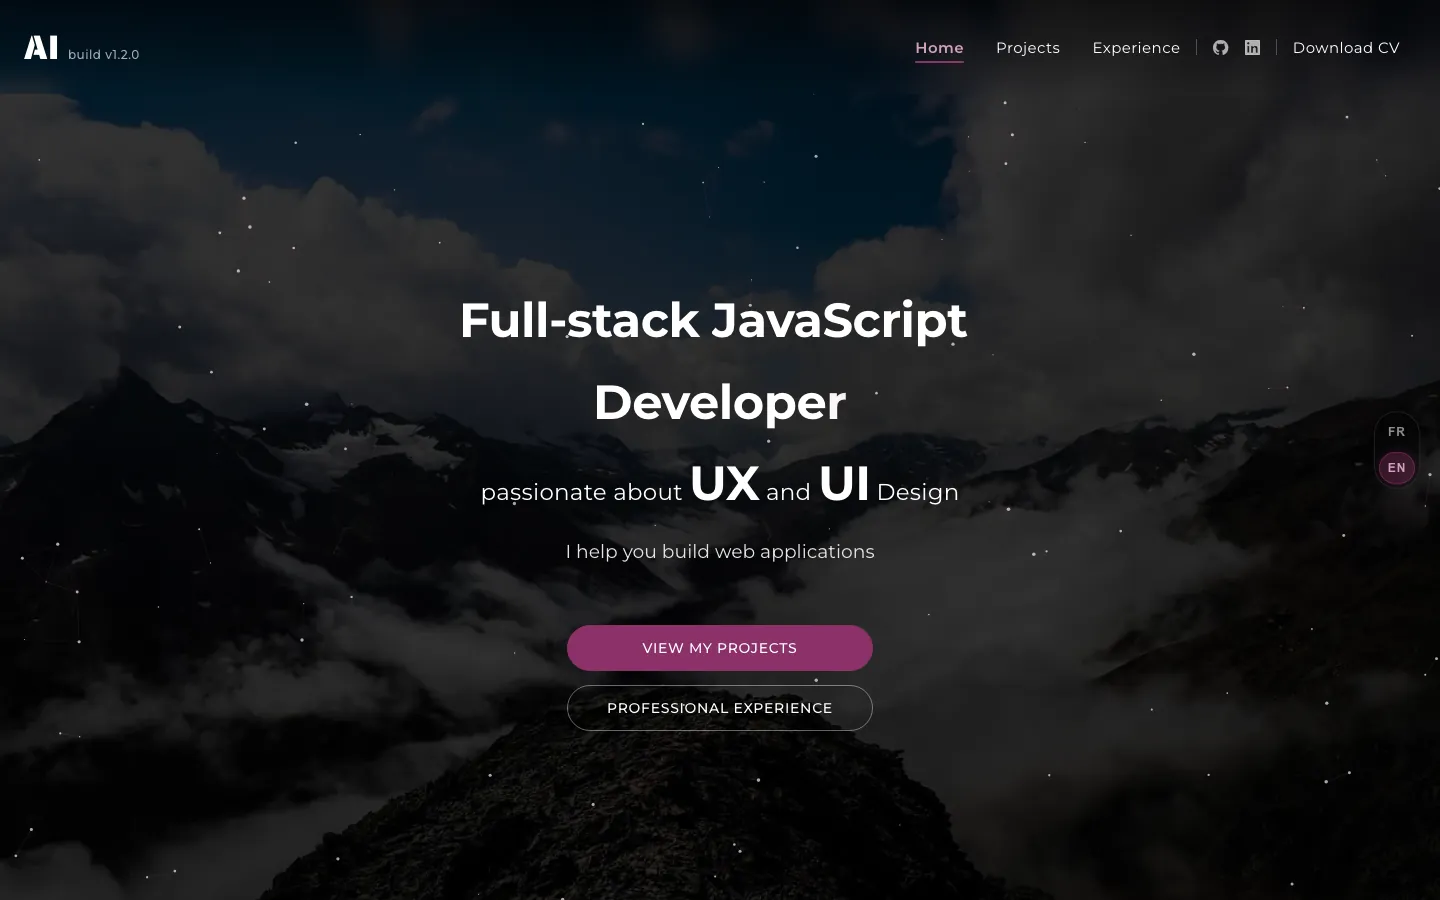
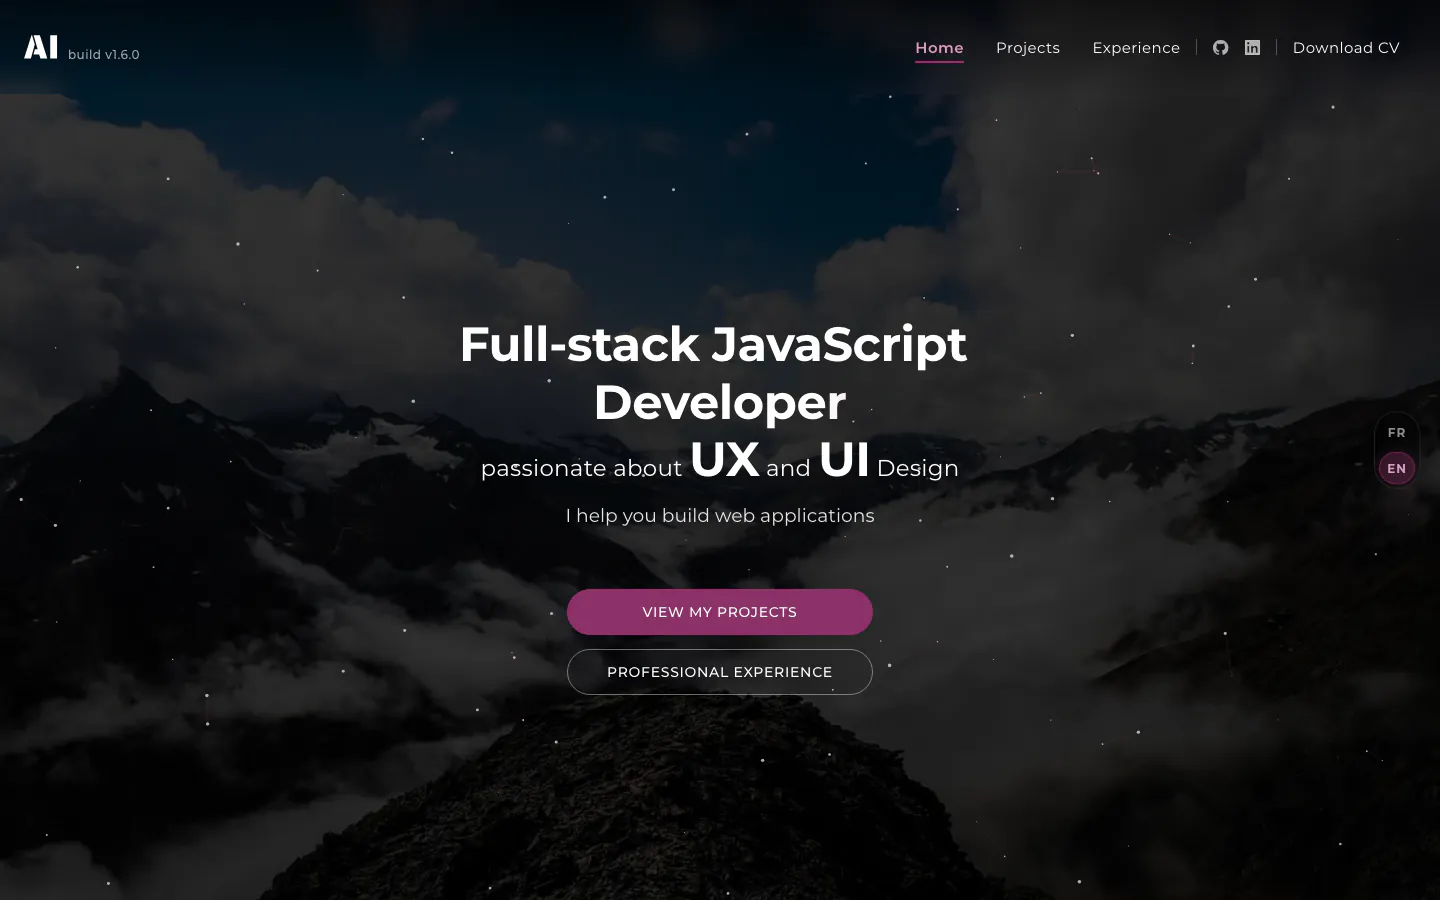
docs: refresh the README screenshot of the home page
The screenshot of the README showed the home page of version 1.2.0. It now shows the English home
page of version 1.6.0 at 1440 x 900 px, captured from a build of develop, and docs/assets.md says
when and how to capture it again.

Refs: ISF-360

Changed region(s): [[0.375, 0.6533, 0.625, 0.8089], [0.3438, 0.4667, 0.6562, 0.6222], [0.3125, 0.3111, 0.6875, 0.4044]]

diff --git a/docs/assets.md b/docs/assets.md
@@ -37,6 +37,15 @@ done
   `cwebp -q 80 -m 6 -sharp_yuv original.png -o public/chess-W.webp`.
 - List the files in the `thumbnails` of the project.
 
+## README screenshot
+
+The README shows the English home page in `docs/images/home.webp`, at 1440 × 900 px and about 40 kB.
+Capture it again with each release that changes the look of the home page: build that release, run `pnpm preview`, screenshot `/en/` at 1440 × 900 px once the animations end, then write it:
+
+```bash
+cwebp -q 80 -m 6 -sharp_yuv home.png -o docs/images/home.webp
+```
+
 ## Company logos
 
 Square WebP files of 108 px, twice the size they show at:
